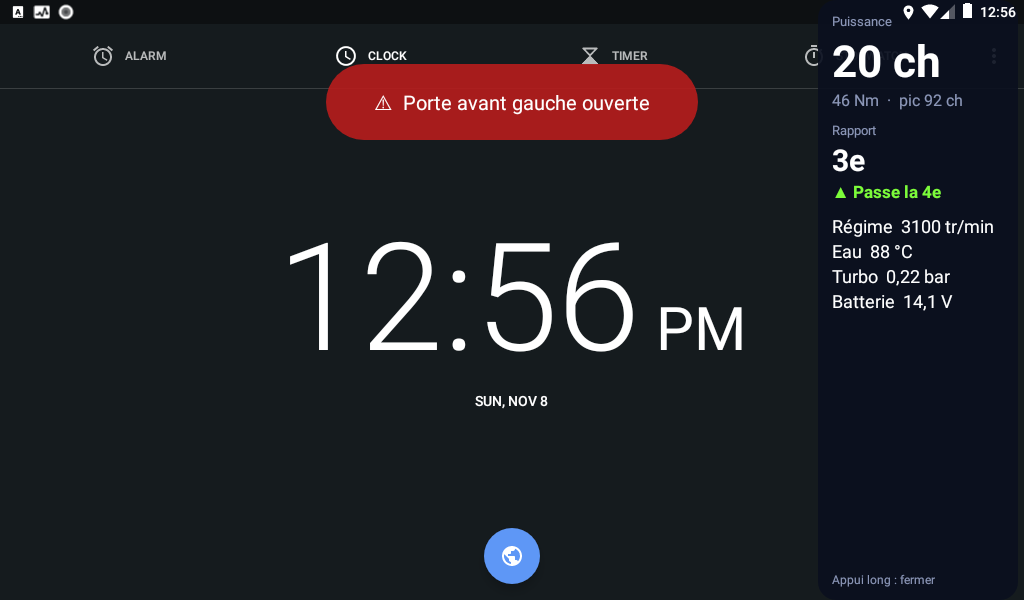
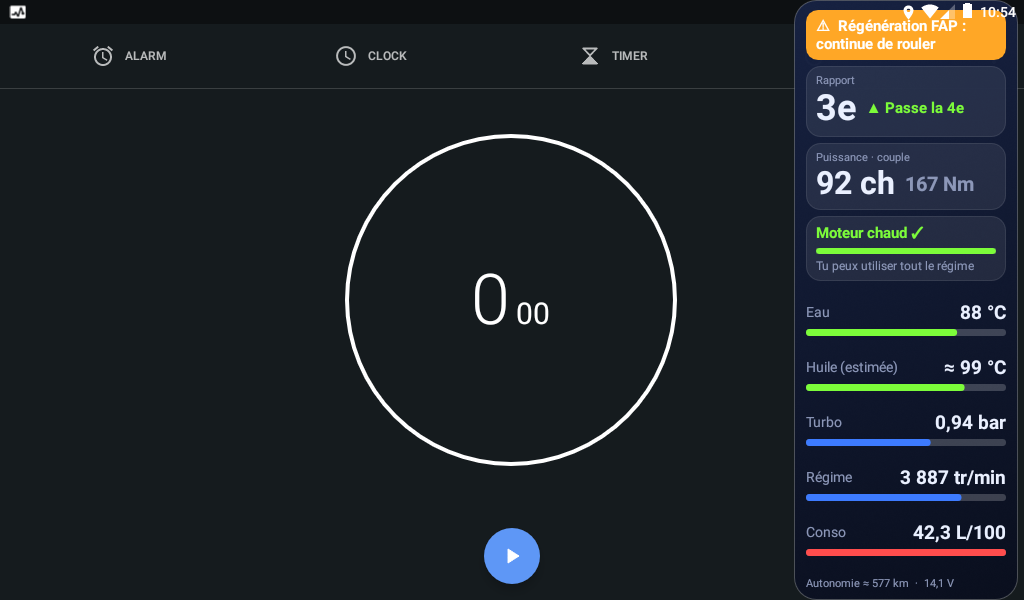
README à jour (v0.16) : nouvelles captures (Son, FAP, optimisation, panneau CarPlay, accueil, diagnostic), points ouverts et consignes de reprise

diff --git a/README.md b/README.md
@@ -1,7 +1,9 @@
-# Lanceur 308 — dossier de reprise (version 0.8)
+# Lanceur 308 — dossier de reprise (version 0.16)
 
 > **À lire en entier avant de toucher à quoi que ce soit.**
-> Ce dossier permet à une IA (ou à un développeur) de reprendre le projet **exactement là où il en est** au 6 novembre 2026.
+> Ce dossier permet à une IA (ou à un développeur) de reprendre le projet. Dernière version : **0.16 du 9 novembre
+> 2026** (nouveautés de chaque version juste sous la galerie ; les sections techniques plus bas datent de la 0.8 et
+> sont complétées par ces notes de version).
 > L'ancien README (version 0.4) est conservé dans `diagnostic/README_ancien_v0.4.md` pour l'historique.
 >
 > **Non publiés dans ce dépôt** (voir `.gitignore`) : les modèles 3D `.glb` et l'APK compilée (ils contiennent
@@ -22,9 +24,9 @@ pilotés par l'appli, plongée à la place du conducteur dans l'onglet Entretien
 | **Vue conducteur (onglet Entretien)** | |
 | ![Habitacle vu du siège conducteur : volant et compteurs](docs/captures/interieur.png) | |
 
-### Les onglets de l'appli (v0.9, Batterie et Trajets en v0.10)
+### Les onglets de l'appli (mis à jour en v0.16)
 
-Captures prises le 8 novembre 2026 dans l'émulateur Android (écran 1024 × 600 comme l'autoradio), en **mode démo**
+Captures prises les 8 et 9 novembre 2026 dans l'émulateur Android (écran 1024 × 600 comme l'autoradio), en **mode démo**
 (données simulées). L'émulateur ne sait pas afficher la 3D (Filament) : sur ces captures, la voiture est la vue
 de dessus en 2D, celle que l'appli affiche quand la 3D n'est pas disponible. Sur l'autoradio, c'est la 3D ci-dessus.
 
@@ -37,11 +39,17 @@ de dessus en 2D, celle que l'appli affiche quand la 3D n'est pas disponible. Sur
 | ![Puissance, couple, rapport engagé, régime, turbo, eau](docs/captures/onglets/05-moteur-puissance.png) | ![Codes défaut et kilométrage du calculateur](docs/captures/onglets/06-moteur-diagnostic.png) |
 | **Moteur — Batterie (v0.10)** | **Moteur — Trajets (v0.10)** |
 | ![Santé de la batterie mesurée à chaque démarrage](docs/captures/onglets/13-moteur-batterie.png) | ![Trajet en cours avec score de conduite souple, historique des trajets](docs/captures/onglets/08-moteur-trajets.png) |
-| **Moteur — Chrono** | |
-| ![Chrono 0-100 et 80-120 km/h](docs/captures/onglets/07-moteur-chrono.png) | |
+| **Moteur — Chrono** | **Moteur — Bilan et FAP (v0.14)** |
+| ![Chrono 0-100 et 80-120 km/h](docs/captures/onglets/07-moteur-chrono.png) | ![Bilan du mois, régénération du FAP en cours repérée au débit d'air, conseil voie rapide](docs/captures/onglets/14-moteur-bilan-fap.png) |
+| **Son — Alignement (v0.15)** | **Son — Tests et polarité (v0.15)** |
+| ![Distances oreille / haut-parleurs et retards à recopier dans le DSP](docs/captures/onglets/15-son-alignement.png) | ![Sons de test par côté, balayage, test de polarité A / B en cours](docs/captures/onglets/16-son-tests.png) |
+| **Son — Mesure au micro du PC (v0.15)** | **Son — Options (v0.15)** |
+| ![Bruit rose, clics gauche / droite, montée en volume pour l'outil PC](docs/captures/onglets/17-son-mesure-pc.png) | ![Volume selon la vitesse, annonces vocales, applis son de l'autoradio](docs/captures/onglets/18-son-options.png) |
+| **Optimiser l'autoradio (v0.16)** | **Optimiser — réglages guidés (v0.16)** |
+| ![Mémoire libérée, mode CarPlay, nettoyage à l'ouverture de CarPlay](docs/captures/onglets/19-optimisation.png) | ![Animations, recherche Wi-Fi / Bluetooth, veille FYT, applis inutilisées](docs/captures/onglets/20-optimisation-reglages.png) |
 | **Entretien** | **Entretien — Pleins** |
 | ![Échéances d'entretien](docs/captures/onglets/09-entretien.png) | ![Consommation et coût des pleins](docs/captures/onglets/10-entretien-pleins.png) |
-| **Réglages** | **Panneau performances à côté de CarPlay** |
+| **Réglages** | **Panneau à côté de CarPlay (v0.13, alerte FAP v0.14)** |
 | ![Réglages : mode démo, panneau CarPlay, côté](docs/captures/onglets/11-reglages.png) | ![Panneau : puissance, rapport conseillé, régime, eau, turbo, batterie](docs/captures/onglets/12-panneau-performances.png) |
 
 **Nouveau en v0.16 : optimisation de l'autoradio** (Réglages → Optimiser l'autoradio ; `optim/Optim.kt`,
@@ -279,7 +287,7 @@ Puis copier l'APK vers `livrables\Lanceur308.apk`, `E:\Lanceur308.apk` et `E:\30
 - AGP 8.7.3, **Kotlin 2.0.21**, Compose BOM 2024.12.01
 - **SceneView 2.2.1** (Filament 1.52) — SceneView 2.3+ exige Kotlin 2.2.
 - minSdk 26, targetSdk 33, compileSdk 35. R8 activé (`proguard-rules.pro` garde `com.google.android.filament.**` et `io.github.sceneview.**`).
-- Version dans `app/build.gradle.kts` : **incrémenter `versionCode` à chaque livraison** (actuellement 8 / "0.8").
+- Version dans `app/build.gradle.kts` : **incrémenter `versionCode` à chaque livraison** (actuellement 22 / "0.16").
 
 ---
 
@@ -395,7 +403,10 @@ Simule ouvrants, phares, marche arrière, batterie faible, accélérations ; les
 2. Si la 3D rame encore en roulant : passer `lowResOptions()` à 0.65 ou limiter à 24 FPS dans `LightScene.kt`.
 3. **Gel GPS sous CarPlay** (problème de départ) : faire un trajet avec Véhicule → GPS, appuyer sur « Waze / Plans vient de se figer » à chaque gel, puis analyser avec `outils/analyser_gps.sh`.
 4. Antibrouillards sur le CAN : codes non identifiés (profil Raise PSA décompilé dans `fyt-extraits/`).
-5. Son / DSP (alignement temporel, Focal AV, Pioneer AR, ampli TDA7851) : jamais commencé.
+5. Son / DSP (alignement temporel, Focal AV, Pioneer AR, ampli TDA7851) : fait en v0.15 (onglet Son + outil PC
+   `outils/son`). Reste : piloter le DSP FYT directement, après étude des APK copiées sur la clé (`apk-fyt/`).
+8. FAP : seuil de détection des régénérations (débit d'air +25 %) à confirmer avec le journal OBD d'une vraie
+   régénération. CarPlay : mesurer l'effet du mode CarPlay (v0.16) sur le lag, boîtier OBD branché / débranché.
 6. Codes défaut OBD (mode 03 / effacement 04) : faciles à ajouter dans `Engine.kt` maintenant que le boîtier est là.
 7. **Onglet Diagnostic (v0.9)** : d'abord une séance d'exploration dans la voiture avec un PC et le vLinker
    (`outils/obd/obd_explorer.py`, lecture seule garantie, fiche `outils/obd/SEANCE_OBD.md`) pour savoir ce que
@@ -405,7 +416,7 @@ Simule ouvrants, phares, marche arrière, batterie faible, accélérations ; les
 
 ## 8. Prompt conseillé pour l'IA qui reprend
 
-> Lis `README.md` en entier. Tu reprends le projet « Lanceur 308 » (Android/Kotlin/Compose + SceneView 2.2.1, autoradio FYT Android 8 avec GPU Mali-T820, **sans ADB**, installation par APK sur clé USB). La dernière version livrée est la 0.8. Compile toujours avec la même clé `debug.keystore`, incrémente `versionCode` à chaque livraison et copie l'APK dans `livrables/` et sur la clé USB. Demande-moi d'abord comment s'est passé l'essai de la v0.8 (netteté de la 3D, connexion du Vgate vLinker MC+). Explique chaque étape en français simple.
+> Lis `README.md` en entier. Tu reprends le projet « Lanceur 308 » (Android/Kotlin/Compose + SceneView 2.2.1, autoradio FYT Android 8 avec GPU Mali-T820, **sans ADB**, installation par APK sur clé USB). La dernière version livrée est la 0.16 (nouveautés de chaque version en haut du README). Compile toujours avec la même clé `debug.keystore`, incrémente `versionCode` à chaque livraison et copie l'APK sur la clé USB. Ne publie jamais de données personnelles (factures, journaux OBD/GPS, VIN, plaque). Demande-moi d'abord comment s'est passé l'essai de la dernière version dans la voiture. Explique chaque étape en français simple.
 
 ---
 
